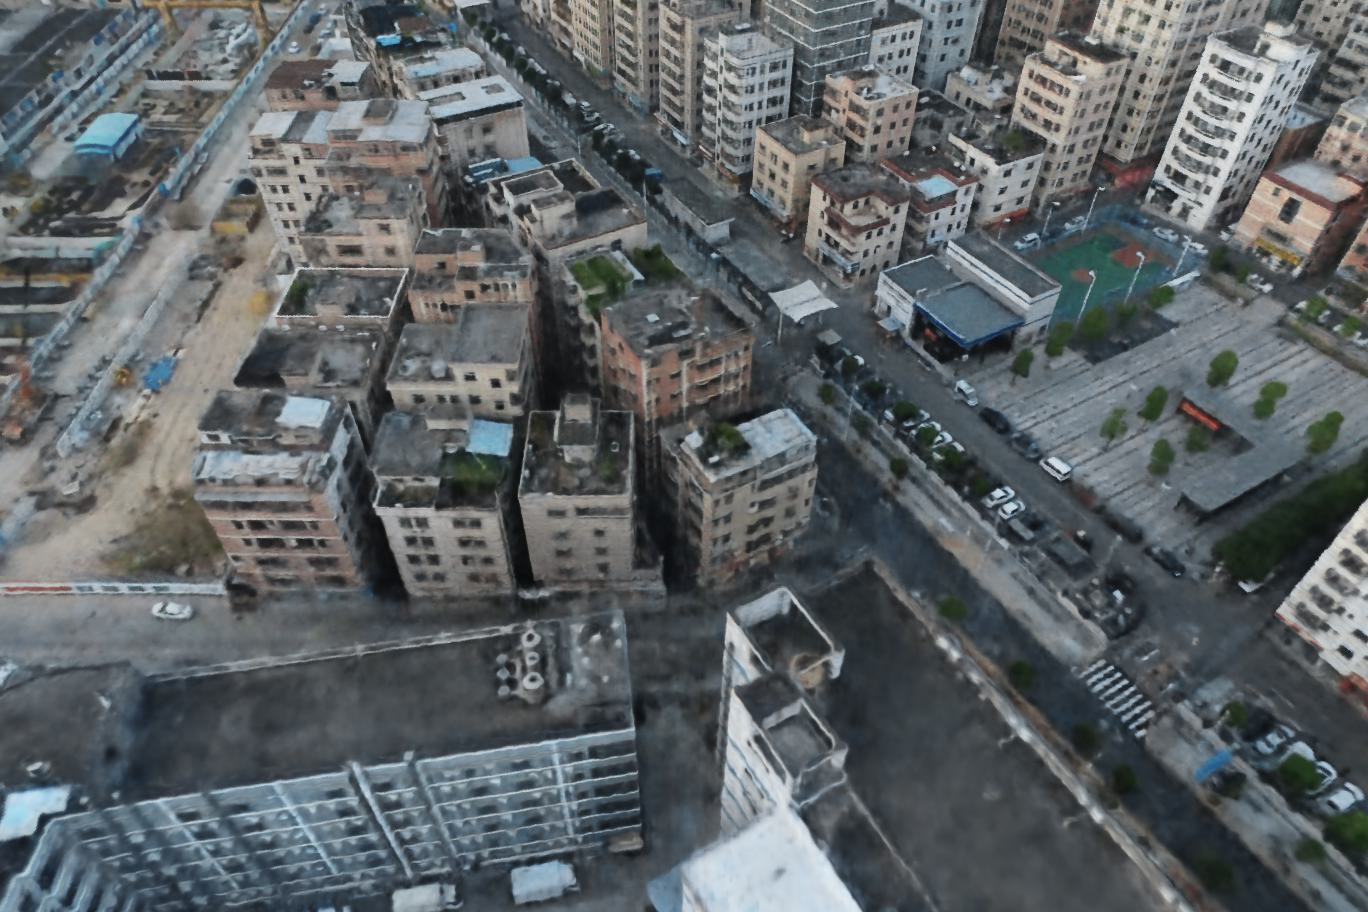
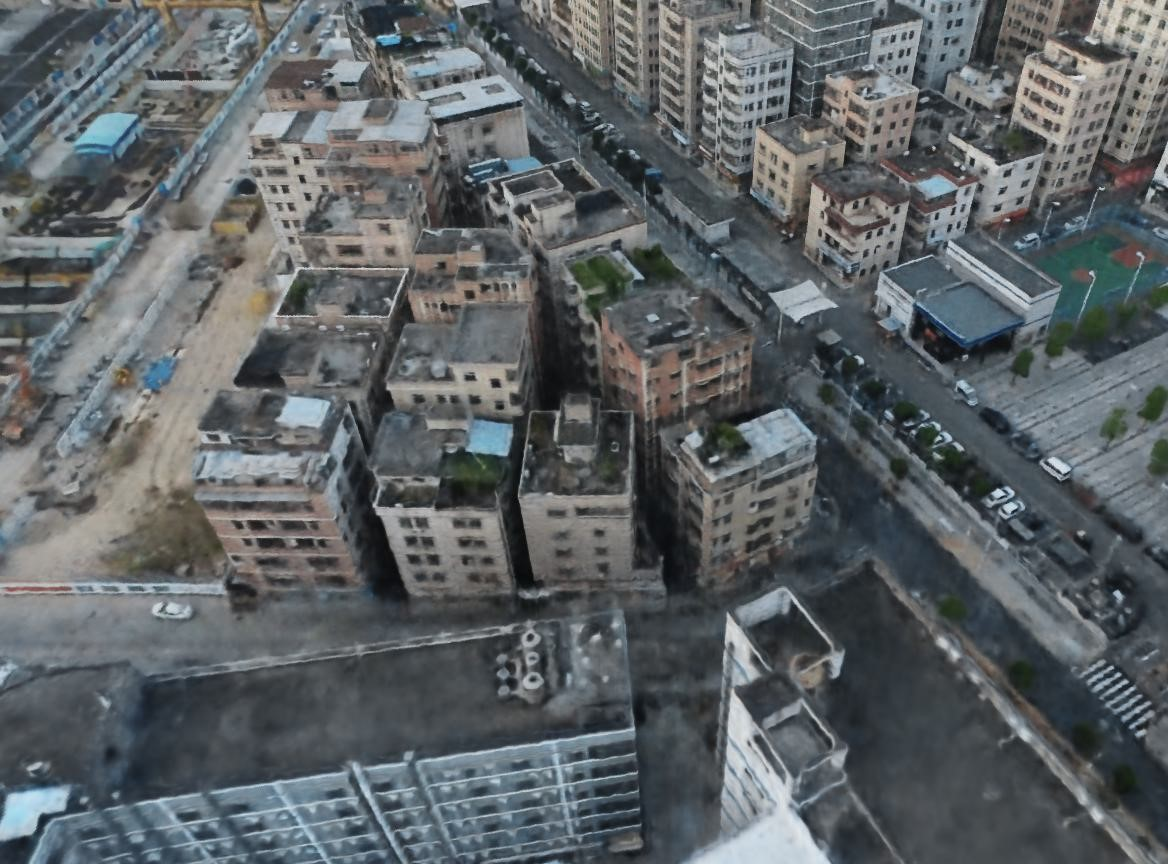
updates index.html and images

diff --git a/index.html b/index.html
@@ -375,7 +375,7 @@
             </div>
 
             <div class="image-compare shadow-md rounded mb-16">
-              <img src="static/images/matrixcity_3dgs_176.jpg" alt="" />
+              <img src="static/images/matrixcity_3dgs_176.png" alt="" />
               <img src="static/images/matrixcity_citygs_176.png" alt="" />
             </div>
 
